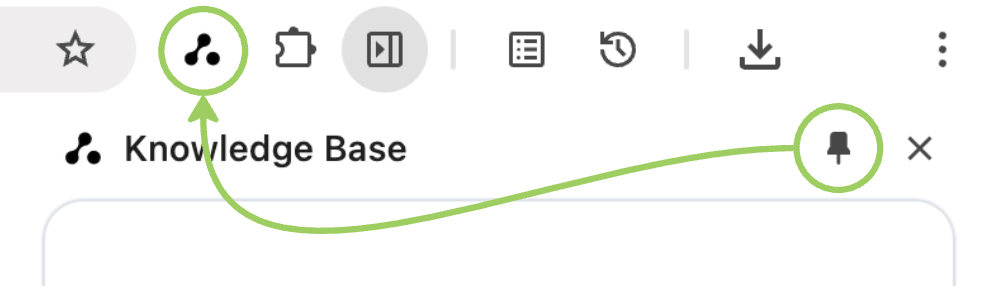
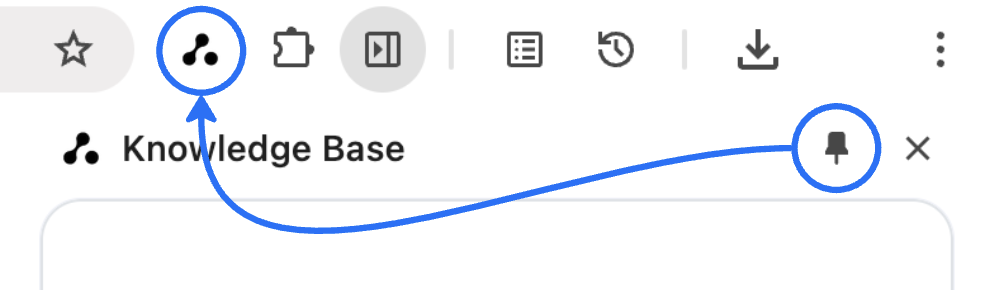
blue for onboarding

diff --git a/page.html b/page.html
@@ -36,6 +36,12 @@
         margin-top: 8vh;
         margin-bottom: 2vh;
       }
+      img {
+        width: 360px;
+        border-radius: 18px;
+        margin: 0;
+        border: 1px solid lightgray;
+      }
     </style>
   </head>
   <body>
@@ -46,7 +52,7 @@
           <button class="btn btn-primary btn-lg" id="openSidePanel">Open side panel</button>
 
           <h3>One small thing...</h3>
-          <img src="images/to-pin.png" style="width: 360px; border-radius: 12px; margin: 0;">
+          <img src="images/to-pin.png">
           <p style="margin: 20px 0 10px 0;">Pin side panel to make it 1 click away 👍</p>
 
           <p style="margin-top: 10vh"><b>You may safely close this tab.</b> Side panel will remain opened until closed manually.</p>
